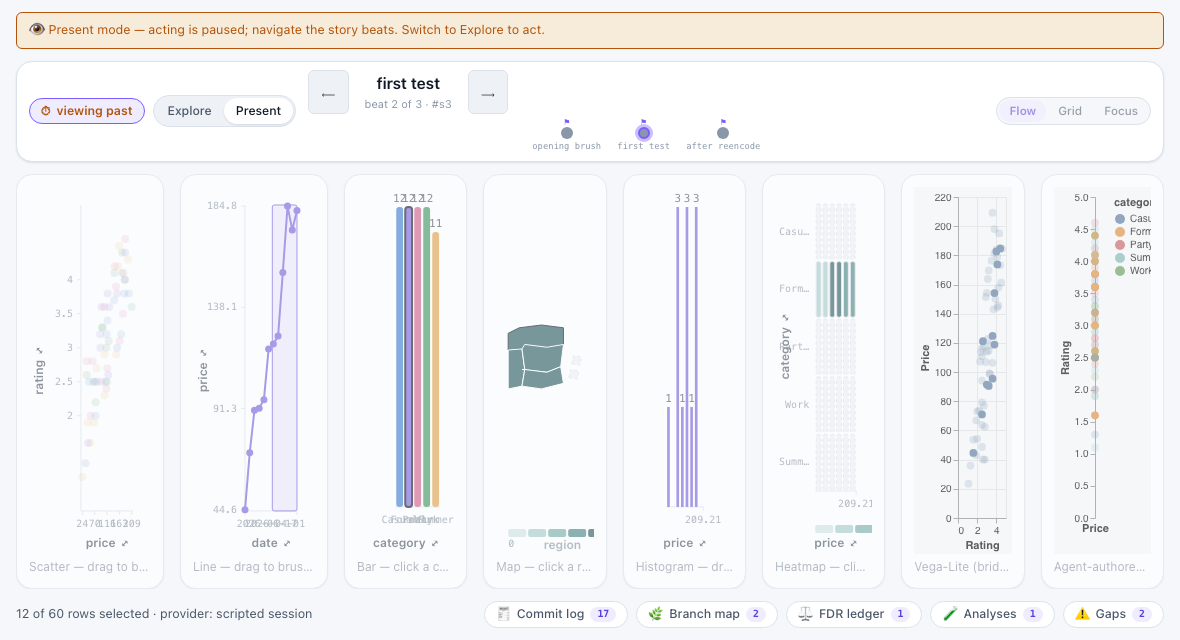
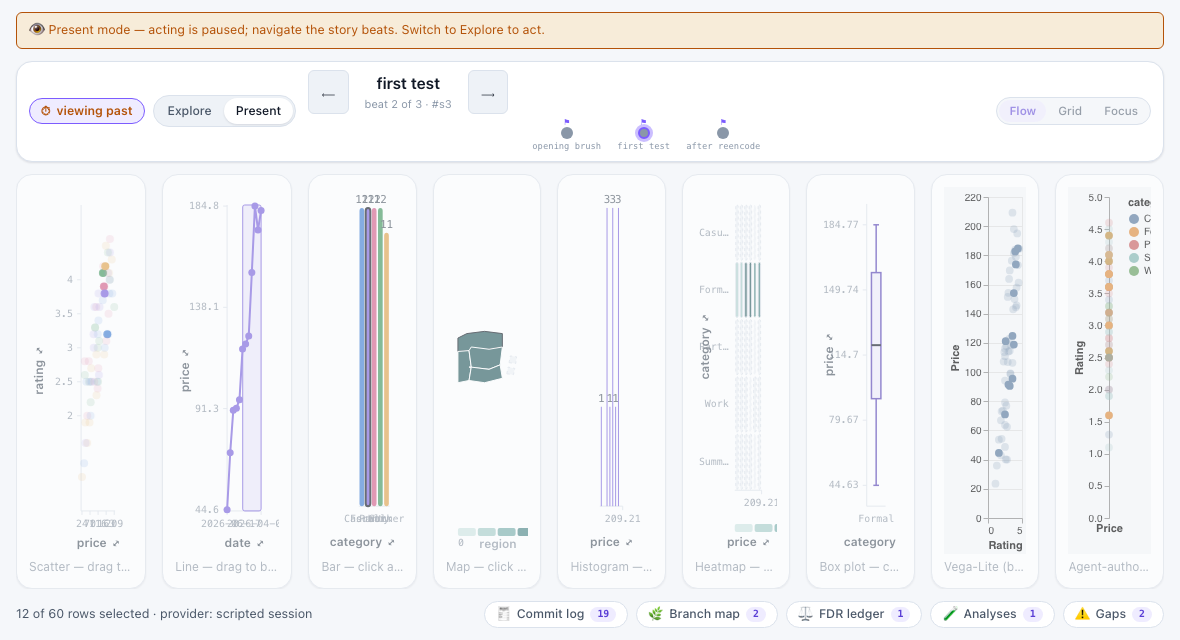
feat(gallery): VizBoxPlot as the 9th cockpit cell — a real box-click crossfilters live
BOX-1 gallery wiring: entry.tsx computes per-category price summaries via
src/data's boxSummary (transform ownership — the host aggregates, not the
chart), scripted.ts declares the 'boxplot' view/encoding so its point
emissions land real commits, smoke.test.ts drives a box click -> point commit
+ crossfilter + click-again clears + zero scroll/console errors, and the
mobile carousel dot count moves 8 -> 9.

Two pre-existing gallery interactions needed narrow-cell fixes once a 9th
chart joined the fixed 1180x640 Flow layout: the box-plot click now uses
page.mouse.click at explicit coordinates (a locator .click() on the ~4px-wide
hit column was hanging Playwright's actionability retry, even though the
click itself already landed correctly — confirmed via a manual browser
session and debug instrumentation before switching approach); the vega-lite
bridge test's second brush (on the scatter) now sweeps 0.55->0.92 of the cell
instead of 0.15->0.55, since a low fraction's pointerdown now lands on the
scatter's fixed-width rotated y-axis-label affordance instead of the
narrowed plot, and the brush's own axis-label guard silently never starts
the drag. Screenshots refreshed under UPDATE_SCREENSHOTS=1 (light+dark,
boxplot + every existing shot whose layout shifted with the new column).

diff --git a/ui/gallery/smoke.test.ts b/ui/gallery/smoke.test.ts
@@ -26,6 +26,11 @@
  *     is the AND of both sides; BOTH constraints crossfilter the other charts;
  *     the commit log tells it in plain words ("price 120 – 165 and category =
  *     Formal"); click-again clears both at once;
+ *   - BOX-1, the primitives-built BOX PLOT as the 9th cell: one HOST-summarized
+ *     box per category (`src/data`'s boxSummary — quartiles, Tukey whiskers,
+ *     listed outliers), a box click lands a REAL point commit crossfiltering
+ *     the other charts, click-again clears it — zero box-plot-specific
+ *     plumbing beyond the primitives tier;
  *   - a report chip opens a LARGE frosted-glass modal hosting the panel, with
  *     scrolling allowed only INSIDE the modal body;
  *   - ⚑ opens the checkpoint naming modal; Enter lands a REAL checkpoint;
@@ -132,6 +137,9 @@ describe.skipIf(!existsSync(CHROME))('vizfootprint-ui gallery smoke (real headle
     // the heatmap cell (D30): 6 HOST-computed price buckets × 5 category rows
     expect(await page.locator('svg.vzf-heatmap rect.vzf-heatcell').count()).toBe(30);
     await maybeElementShot(page, '[data-chart="heatmap"]', path.join(SHOTS, 'gallery-heatmap.png'));
+    // the box plot cell (built from the public primitives): one HOST-summarized box per category (5)
+    expect(await page.locator('svg.vzf-boxplot rect.vzf-box').count()).toBe(5);
+    await maybeElementShot(page, '[data-chart="boxplot"]', path.join(SHOTS, 'gallery-boxplot.png'));
     // the uninhabited region is HONESTLY empty: neutral fill class + no-rows tooltip
     const isles = page.locator('svg.vzf-map [data-region="Outer Isles"]');
     expect((await isles.getAttribute('class')) ?? '').toContain('vzf-region-empty');
@@ -304,6 +312,50 @@ describe.skipIf(!existsSync(CHROME))('vizfootprint-ui gallery smoke (real headle
     expect(await commits()).toBe(c1 + 1);
     await page.waitForFunction(
       () => document.querySelectorAll('svg.vzf-heatmap rect.vzf-heatcell.vzf-selected').length === 0,
+      undefined,
+      { timeout: 8000 },
+    );
+    expect(await readout()).toBe(rowsBefore);
+    expect(await page.locator('svg.vzf-scatter circle.vzf-dim').count()).toBe(scatterDimBefore);
+    await expectNoPageOrShellScroll(page);
+  }, 30_000);
+
+  it('the box plot (host-summarized quartiles/whiskers/outliers) selects a category by clicking its box; click-again clears', async () => {
+    const commits = async (): Promise<number> =>
+      Number(await page.locator('[data-report="commits"] .vzf-report-badge').textContent());
+    const readout = async (): Promise<number> =>
+      Number((((await page.locator('.vzf-cockpit-readout').textContent()) ?? '').match(/^(\d+) of 60/) ?? [])[1]);
+    const rowsBefore = await readout();
+    const scatterDimBefore = await page.locator('svg.vzf-scatter circle.vzf-dim').count();
+
+    // 1) click a box → a REAL point commit; the category crossfilters the other charts
+    // (a real mouse click at the hit column's own coordinates — the histogram
+    // bucket-click precedent — rather than a locator .click(), since the hit
+    // column is a narrow slice in this 9-chart Flow layout)
+    const c0 = await commits();
+    const firstHit = (await page.locator('svg.vzf-boxplot rect.vzf-box-hit').first().boundingBox())!;
+    await page.mouse.click(firstHit.x + firstHit.width / 2, firstHit.y + firstHit.height / 2);
+    await page.waitForFunction(
+      (n) => Number(document.querySelector('[data-report="commits"] .vzf-report-badge')?.textContent) > n,
+      c0,
+      { timeout: 8000 },
+    );
+    await page.waitForSelector('svg.vzf-boxplot rect.vzf-box.vzf-selected');
+    expect(await readout()).toBeLessThan(rowsBefore);
+    expect(await page.locator('svg.vzf-scatter circle.vzf-dim').count()).toBeGreaterThan(scatterDimBefore);
+    await maybeElementShot(page, '[data-chart="boxplot"]', path.join(SHOTS, 'gallery-boxplot-selected.png'));
+
+    // 2) click the SAME box again → the CLEARED point; the filter releases
+    const c1 = await commits();
+    const selectedHit = (await page.locator('svg.vzf-boxplot rect.vzf-box-hit[aria-pressed="true"]').boundingBox())!;
+    await page.mouse.click(selectedHit.x + selectedHit.width / 2, selectedHit.y + selectedHit.height / 2);
+    await page.waitForFunction(
+      (n) => Number(document.querySelector('[data-report="commits"] .vzf-report-badge')?.textContent) > n,
+      c1,
+      { timeout: 8000 },
+    );
+    await page.waitForFunction(
+      () => document.querySelectorAll('svg.vzf-boxplot rect.vzf-box.vzf-selected').length === 0,
       undefined,
       { timeout: 8000 },
     );
@@ -626,6 +678,7 @@ describe.skipIf(!existsSync(CHROME))('vizfootprint-ui gallery smoke (real headle
     await maybeElementShot(page, '[data-chart="map"]', path.join(SHOTS, 'gallery-map-dark.png'));
     // the heatmap rides the same flipped ramp tokens (D30)
     await maybeElementShot(page, '[data-chart="heatmap"]', path.join(SHOTS, 'gallery-heatmap-dark.png'));
+    await maybeElementShot(page, '[data-chart="boxplot"]', path.join(SHOTS, 'gallery-boxplot-dark.png'));
     await page.emulateMedia({ colorScheme: 'light' });
   }, 30_000);
 
@@ -647,9 +700,9 @@ describe.skipIf(!existsSync(CHROME))('vizfootprint-ui gallery smoke (real headle
     });
     expect(strip.snapType, 'the charts band is a snap carousel on mobile').toContain('x');
     expect(strip.dotsDisplay, 'dot indicators show on mobile').not.toBe('none');
-    // scatter · line · bar · map · histogram · heatmap (D30) · vl (the bridge
-    // cell) · the AGENT-AUTHORED chart (RP-3) — all eight ride the carousel
-    expect(strip.dotCount).toBe(8);
+    // scatter · line · bar · map · histogram · heatmap (D30) · box plot · vl
+    // (the bridge cell) · the AGENT-AUTHORED chart (RP-3) — all nine ride the carousel
+    expect(strip.dotCount).toBe(9);
     expect(Math.abs(strip.cellW - strip.stripW), 'each chart is one full-width page').toBeLessThanOrEqual(2);
     // both NEW charts are carousel cells with live content
     expect(await page.locator('[data-chart="line"] svg.vzf-line').count()).toBe(1);
@@ -722,9 +775,15 @@ describe.skipIf(!existsSync(CHROME))('vizfootprint-ui gallery smoke (real headle
     //    via the bridge-injected __vzfKeep opacity encode ──
     const commitsBefore2 = Number(await page.locator('[data-report="commits"] .vzf-report-badge').textContent());
     const scatterBox = (await page.locator('svg.vzf-scatter').boundingBox())!;
-    await page.mouse.move(scatterBox.x + scatterBox.width * 0.15, scatterBox.y + scatterBox.height * 0.5);
+    // start PAST 0.5 (not 0.15): with nine charts now sharing the Flow band, a
+    // cell can be narrow enough that a low fraction's pointerdown lands on the
+    // scatter's own rotated Y-AXIS LABEL affordance (a fixed-width hit area
+    // near the left edge, independent of the chart's own width) instead of
+    // the plot — the brush's axis-label guard then never starts the drag at
+    // all. 0.55-0.92 mirrors the histogram/heatmap tests' own narrow-cell-safe sweep.
+    await page.mouse.move(scatterBox.x + scatterBox.width * 0.55, scatterBox.y + scatterBox.height * 0.5);
     await page.mouse.down();
-    await page.mouse.move(scatterBox.x + scatterBox.width * 0.55, scatterBox.y + scatterBox.height * 0.5, { steps: 10 });
+    await page.mouse.move(scatterBox.x + scatterBox.width * 0.92, scatterBox.y + scatterBox.height * 0.5, { steps: 10 });
     await page.mouse.up();
     await page.waitForFunction(
       (n) => Number(document.querySelector('[data-report="commits"] .vzf-report-badge')?.textContent) > n,

diff --git a/ui/gallery/entry.tsx b/ui/gallery/entry.tsx
@@ -22,6 +22,7 @@ import {
   VizMap,
   VizHistogram,
   VizHeatmap,
+  VizBoxPlot,
   TimeTravelBar,
   BranchMap,
   BranchPill,
@@ -45,8 +46,9 @@ import { buildScriptedSession } from './scripted.js';
 import { CATEGORIES, CATEGORY_COLORS, GALLERY_GEO, REGIONS, type GalleryRow } from './data.js';
 import { VegaLiteCell } from './VegaLiteCell.js';
 // the HOST side of the transform-ownership rule: this page (not the chart)
-// computes the histogram's buckets with src/data's pure binning helper
-import { equalWidthBins, recountBins } from '../../src/data/index.js';
+// computes the histogram's buckets and the box plot's statistics with
+// src/data's pure host-side helpers
+import { equalWidthBins, recountBins, boxSummary } from '../../src/data/index.js';
 
 // The old page-local clause matcher is GONE (RP-1): the contract's
 // `selectionForView` derives the clause-addressable selection straight from
@@ -154,6 +156,28 @@ function App(props: { view: SessionView; rows: readonly GalleryRow[] }): JSX.Ele
       rows.filter((r) => heatRowOf(r) === y && keepHeat(r)).map(heatValueOf).filter((v): v is number | string => v !== null),
     ).bins.map((b) => ({ x0: b.x0, x1: b.x1, y, count: b.count })),
   );
+
+  // the box plot's fields come from ITS encoding fold; the HOST owns the
+  // per-category statistics (transform ownership, one tier up from a count):
+  // boxSummary computes quartiles/whiskers/outliers over the rows that
+  // survive the OTHER views' clauses (the VizBar recompute pattern).
+  const encBox = state.encodings['boxplot'] ?? {};
+  const boxXField = encBox['x'] ?? 'category';
+  const boxYField = encBox['y'] ?? 'price';
+  const boxValueOf = (r: GalleryRow): number | string | null => {
+    const v = r[boxYField];
+    return typeof v === 'number' || typeof v === 'string' ? v : null;
+  };
+  const keepBox = keepPredicate(selFor('boxplot'));
+  const boxCategories = useMemo(() => [...new Set(rows.map((r) => String(r[boxXField])))], [rows, boxXField]);
+  const boxData = boxCategories.flatMap((category) => {
+    const values = rows
+      .filter((r) => String(r[boxXField]) === category && keepBox(r))
+      .map(boxValueOf)
+      .filter((v): v is number | string => v !== null);
+    const summary = boxSummary(values);
+    return summary ? [{ category, ...summary }] : []; // an empty-under-crossfilter category is honestly omitted, never a fabricated box
+  });
 
   // the map's value per region = the crossfiltered row COUNT (the canonical wiring)
   const keepMap = keepPredicate(selFor('map'));
@@ -352,6 +376,26 @@ function App(props: { view: SessionView; rows: readonly GalleryRow[] }): JSX.Ele
               columns={columns}
               encoding={encHm}
               onEmit={(e) => void view.emit('heatmap', e, 'heatmap cell click')}
+              onReencode={(v, c, f) => void view.reencode(v, c, f)}
+            />
+          ),
+        },
+        {
+          id: 'boxplot',
+          weight: 2.5,
+          caption: `Box plot — click a box to select ${boxXField}; ${boxYField} quartiles, whiskers, and outliers`,
+          render: ({ width, height }) => (
+            <VizBoxPlot
+              viewId="boxplot"
+              data={boxData}
+              xField={boxXField}
+              yField={boxYField}
+              width={width}
+              height={height}
+              selection={selFor('boxplot')}
+              columns={columns}
+              encoding={encBox}
+              onEmit={(e) => void view.emit('boxplot', e, 'box plot click')}
               onReencode={(v, c, f) => void view.reencode(v, c, f)}
             />
           ),

diff --git a/ui/gallery/scripted.ts b/ui/gallery/scripted.ts
@@ -48,6 +48,10 @@ export async function buildScriptedSession(): Promise<ScriptedGallery> {
       // category together, landing ONE commit (the heatmap is the only view
       // that declares the cell emission kind; see `capabilities` below).
       heatmap: { actor: 'user', label: 'Price × category' },
+      // BOX-1: another primitives-tier proof cell — VizBoxPlot receives
+      // HOST-summarized quartiles/whiskers/outliers (src/data's boxSummary);
+      // declared here so a box click's point selection lands a real commit.
+      boxplot: { actor: 'user', label: 'Price by category (box plot)' },
       // the vizfootprint-vega-lite bridge cell (RP-2): a THIRD-PARTY-shaped
       // renderer riding the SAME declared-view/crossfilter loop as the four
       // first-party charts above — must be declared here for its emissions
@@ -61,6 +65,7 @@ export async function buildScriptedSession(): Promise<ScriptedGallery> {
       { viewId: 'map', chartKind: 'map', channels: ['region'], initial: { region: 'region' } },
       { viewId: 'histogram', chartKind: 'histogram', channels: ['x'], initial: { x: 'price' } },
       { viewId: 'heatmap', chartKind: 'heatmap', channels: ['x', 'y'], initial: { x: 'price', y: 'category' } },
+      { viewId: 'boxplot', chartKind: 'boxplot', channels: ['x', 'y'], initial: { x: 'category', y: 'price' } },
     ],
     // R14 honest capability: the heatmap emits ONLY the D30 cell kind — a
     // point/interval probe against it is a typed guard-failed gap, and a cell
